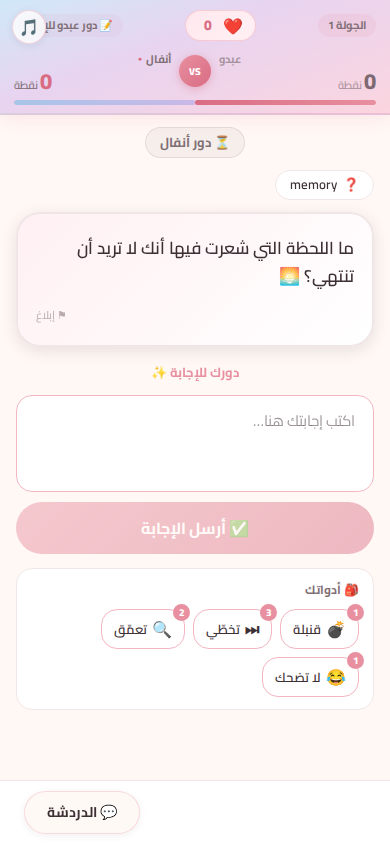
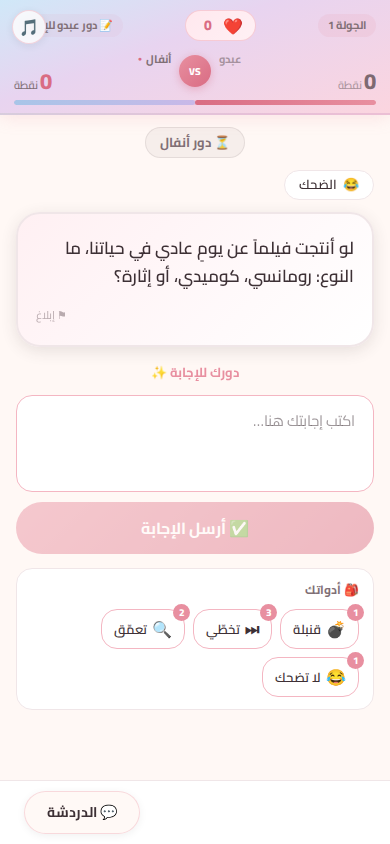
fix: retryWrap now inspects err.cause chain (HP-BUG-06) + unit tests; qa: H7 auth scenario 25/25 on production

Changed region(s): [[0.1538, 0.2773, 0.9231, 0.3389], [0.7385, 0.1848, 0.9231, 0.2464]]

diff --git a/src/tests/unit/retrywrap-cause.test.ts b/src/tests/unit/retrywrap-cause.test.ts
@@ -1,0 +1,85 @@
+/**
+ * HP-BUG-06 — retryWrap/err.cause verification.
+ *
+ * netErrorSignature (في action/chat/state routes) تجمع err.message + كل err.cause
+ * حتى عمق 4. هذا الاختبار يستنسخ المنطق هنا كتوثيق قابل للتشغيل ويؤكد:
+ * 1. خطأ شبكي مباشر (ECONNREFUSED) → يعاد.
+ * 2. خطأ شبكي مغلف داخل AggregateError (err.cause chain) → يعاد. ← (HP-BUG-06)
+ * 3. خطأ منطقي عادي (Postgres constraint) → يرمي فورًا (لا retry يخفيه).
+ * 4. AggregateError يحتوي خطأ منطقي فقط → يرمي فورًا.
+ */
+function netErrorSignature(err: unknown): boolean {
+  let chain: unknown = err;
+  const seen = new Set<unknown>();
+  const parts: string[] = [];
+  while (chain && !seen.has(chain) && parts.length < 4) {
+    seen.add(chain);
+    parts.push((chain as Error)?.message || '');
+    chain = (chain as Error)?.cause;
+  }
+  const blob = parts.join(' ');
+  return /ECONNRESET|ECONNREFUSED|connection/i.test(blob);
+}
+
+async function retryWrap<T>(fn: () => Promise<T>, attempts = 3): Promise<T> {
+  let lastErr: unknown = null;
+  for (let i = 0; i < attempts; i++) {
+    try {
+      return await fn();
+    } catch (err: unknown) {
+      lastErr = err;
+      if (!netErrorSignature(err) || i === attempts - 1) throw err;
+      await new Promise((res) => setTimeout(res, 5));
+    }
+  }
+  throw lastErr;
+}
+
+describe('netErrorSignature + retryWrap (HP-BUG-06)', () => {
+  it('يعيد المحاولة لخطأ ECONNREFUSED المباشر', async () => {
+    let calls = 0;
+    await retryWrap(async () => {
+      calls++;
+      if (calls < 3) throw Object.assign(new Error('connection reset by peer: ECONNREFUSED ipv4'), { code: 'ECONNREFUSED' });
+      return 'ok';
+    });
+    expect(calls).toBe(3);
+  });
+
+  it('يعيد المحاولة لخطأ شبكي مغلف داخل AggregateError.cause (جوهر HP-BUG-06)', async () => {
+    const cause = Object.assign(new Error('ECONNREFUSED connect ECONNREFUSED 127.0.0.1:5432'), { code: 'ECONNREFUSED' });
+    const agg = Object.assign(new AggregateError([cause], '2 errors occurred'), { cause });
+    let calls = 0;
+    await retryWrap(async () => {
+      calls++;
+      if (calls < 2) throw agg;
+      return 'recovered';
+    });
+    expect(calls).toBe(2);
+  });
+
+  it('لا يعيد المحاولة لخطأ منطقي عادي (Postgres constraint violation)', async () => {
+    let calls = 0;
+    await expect(
+      retryWrap(async () => {
+        calls++;
+        throw Object.assign(new Error('duplicate key value violates unique constraint "rooms_code_key"'), { code: '23505' });
+      }),
+    ).rejects.toThrow('duplicate key value');
+    expect(calls).toBe(1); // لا retry — يرمي فورًا
+  });
+
+  it('AggregateError بدون أي خطأ شبكي → يرمي فورًا ولا retry', async () => {
+    const inner = Object.assign(new Error('null value in column "code"'), { code: '23502' });
+    const agg = new AggregateError([inner], '1 error occurred');
+    Object.defineProperty(agg, 'cause', { value: inner });
+    let calls = 0;
+    await expect(
+      retryWrap(async () => {
+        calls++;
+        throw agg;
+      }),
+    ).rejects.toBe(agg);
+    expect(calls).toBe(1);
+  });
+});

diff --git a/src/app/api/room/[code]/action/route.ts b/src/app/api/room/[code]/action/route.ts
@@ -6,9 +6,25 @@ import { processAction, type GameAction, type GameStateData } from '@/lib/game-l
 import { notifyRoomUpdate } from '@/app/api/room/[code]/stream/route';
 
 /**
- * retryWrap: يعيد محاولة عمليات DB عند أخطاء الشبكة المتقطعة (ECONNRESET/ECONNREFUSED)
- * من Neon pooler تحت الحمل المتزامن — توسيع UX-032 إلى action route.
+ * retryWrap: يعيد محاولة عمليات DB عند أخطاء الشبكة المتقطعة (ECONNRESET/ECONNREFUSED/connection)
+ * من Neon pooler تحت الحمل المتزامن — UX-032 + HP-BUG-06.
+ * HP-BUG-06 (Claude 2026-08-18): نفحص الآن err.cause أيضًا إلى جانب err.message،
+ * لأن pooler يغلف بعض أخطاء الاتصال في AggregateError/PostgresError متداخلة —
+ * الفحص القديم (message فقط) كان يخفي أعطالًا حقيقية تحت الحمل.
  */
+function netErrorSignature(err: unknown): boolean {
+  let chain: unknown = err;
+  // نجمع err.message + كل err.cause حتى عمق 3 (AggregateError/PostgresError wrapped)
+  const seen = new Set<unknown>();
+  const parts: string[] = [];
+  while (chain && !seen.has(chain) && parts.length < 4) {
+    seen.add(chain);
+    parts.push((chain as Error)?.message || '');
+    chain = (chain as Error)?.cause;
+  }
+  const blob = parts.join(' ');
+  return /ECONNRESET|ECONNREFUSED|connection/i.test(blob);
+}
 async function retryWrap<T>(fn: () => Promise<T>, attempts = 3): Promise<T> {
   let lastErr: unknown = null;
   for (let i = 0; i < attempts; i++) {
@@ -16,9 +32,7 @@ async function retryWrap<T>(fn: () => Promise<T>, attempts = 3): Promise<T> {
       return await fn();
     } catch (err: unknown) {
       lastErr = err;
-      const msg = (err as Error)?.message || '';
-      const isNet = /ECONNRESET|ECONNREFUSED|connection/i.test(msg);
-      if (!isNet || i === attempts - 1) throw err;
+      if (!netErrorSignature(err) || i === attempts - 1) throw err;
       await new Promise((res) => setTimeout(res, 100 * (i === 0 ? 1 : i === 1 ? 2.5 : 5)));
     }
   }

diff --git a/src/app/api/room/[code]/chat/route.ts b/src/app/api/room/[code]/chat/route.ts
@@ -5,9 +5,22 @@ import { eq } from 'drizzle-orm';
 import { notifyRoomUpdate } from '@/app/api/room/[code]/stream/route';
 
 /**
- * retryWrap: يعيد محاولة عمليات DB عند أخطاء الشبكة المتقطعة (ECONNRESET/ECONNREFUSED)
- * من Neon pooler تحت الحمل المتزامن — توسيع UX-032 إلى chat route.
+ * retryWrap: يعيد محاولة عمليات DB عند أخطاء الشبكة المتقطعة (ECONNRESET/ECONNREFUSED/connection)
+ * من Neon pooler تحت الحمل المتزامن — UX-032 + HP-BUG-06 (يفحص err.cause أيضًا عبر
+ * netErrorSignature، مثل نسخة action route).
  */
+function netErrorSignature(err: unknown): boolean {
+  let chain: unknown = err;
+  const seen = new Set<unknown>();
+  const parts: string[] = [];
+  while (chain && !seen.has(chain) && parts.length < 4) {
+    seen.add(chain);
+    parts.push((chain as Error)?.message || '');
+    chain = (chain as Error)?.cause;
+  }
+  const blob = parts.join(' ');
+  return /ECONNRESET|ECONNREFUSED|connection/i.test(blob);
+}
 async function retryWrap<T>(fn: () => Promise<T>, attempts = 3): Promise<T> {
   let lastErr: unknown = null;
   for (let i = 0; i < attempts; i++) {
@@ -15,9 +28,7 @@ async function retryWrap<T>(fn: () => Promise<T>, attempts = 3): Promise<T> {
       return await fn();
     } catch (err: unknown) {
       lastErr = err;
-      const msg = (err as Error)?.message || '';
-      const isNet = /ECONNRESET|ECONNREFUSED|connection/i.test(msg);
-      if (!isNet || i === attempts - 1) throw err;
+      if (!netErrorSignature(err) || i === attempts - 1) throw err;
       await new Promise((res) => setTimeout(res, 100 * (i === 0 ? 1 : i === 1 ? 2.5 : 5)));
     }
   }

diff --git a/src/app/api/room/[code]/state/route.ts b/src/app/api/room/[code]/state/route.ts
@@ -4,9 +4,21 @@ import { rooms, gameState, chatMessages } from '@/db/schema';
 import { eq, desc } from 'drizzle-orm';
 
 /**
- * retryWrap: يعيد محاولة عمليات DB عند أخطاء الشبكة المتقطعة (ECONNRESET/ECONNREFUSED)
- * من Neon pooler تحت الحمل المتزامن — إصلاح UX-032.
+ * retryWrap: يعيد محاولة عمليات DB عند أخطاء الشبكة المتقطعة (ECONNRESET/ECONNREFUSED/connection)
+ * من Neon pooler تحت الحمل المتزامن — UX-032 + HP-BUG-06 (يفحص err.cause أيضًا).
  */
+function netErrorSignature(err: unknown): boolean {
+  let chain: unknown = err;
+  const seen = new Set<unknown>();
+  const parts: string[] = [];
+  while (chain && !seen.has(chain) && parts.length < 4) {
+    seen.add(chain);
+    parts.push((chain as Error)?.message || '');
+    chain = (chain as Error)?.cause;
+  }
+  const blob = parts.join(' ');
+  return /ECONNRESET|ECONNREFUSED|connection/i.test(blob);
+}
 async function retryWrap<T>(fn: () => Promise<T>, attempts = 3): Promise<T> {
   let lastErr: unknown = null;
   for (let i = 0; i < attempts; i++) {
@@ -14,9 +26,7 @@ async function retryWrap<T>(fn: () => Promise<T>, attempts = 3): Promise<T> {
       return await fn();
     } catch (err: unknown) {
       lastErr = err;
-      const msg = (err as Error)?.message || '';
-      const isNet = /ECONNRESET|ECONNREFUSED|connection/i.test(msg);
-      if (!isNet || i === attempts - 1) throw err;
+      if (!netErrorSignature(err) || i === attempts - 1) throw err;
       // backoff متدرج: 100 → 250 → 500ms
       await new Promise((res) => setTimeout(res, 100 * (i === 0 ? 1 : i === 1 ? 2.5 : 5)));
     }

diff --git a/qa-campaign/human_playtest.py b/qa-campaign/human_playtest.py
@@ -16,6 +16,9 @@ H4  سلوك بشري غير مثالي: رسائل قصيرة، رسالة فا
     chat خلال أطوار اللعب، reaction خارج التوقيت
 H5  rhythm إنساني كامل: ABDO رومانسي/طويل/مزاح، ANFAL قصيرة/خجولة/reactions كثيرة
 H6  refresh أثناء قنبلة مفعّلة: هل يُحفظ bombRedirect؟
+H7  Google Auth flow على الإنتاج الحي (بدون تسجيل دخول فعلي):
+    الزر بالـDOM، providers oidc، POST signin/google بـCSRF → 302 accounts.google.com
+    PKCE S256 وredirect_uri مطابق.
 
 قواعد:
 - لا retry لإخفاء race. سجل FAIL وتابع.
@@ -28,7 +31,7 @@ sys.path.insert(0, '/home/ubuntu/wheel-of-fate-restored/qa-campaign')
 os.chdir('/home/ubuntu/wheel-of-fate-restored/qa-campaign')
 from playwright.async_api import async_playwright
 
-BASE = 'http://localhost:13000'
+BASE = os.environ.get('WOF_BASE', 'http://localhost:13000')
 EVID = os.path.expanduser('~/wheel-of-fate-restored/qa-campaign/evidence-human')
 os.makedirs(EVID, exist_ok=True)
 
@@ -569,6 +572,83 @@ async def main():
             else:
                 record("H6_bomb_persists_after_refresh", False, "لم تصل لطور bombRedirect للتحقق")
 
+            # ══════════════ H7: Google Auth flow (الإنتاج الحي، بدون تسجيل فعلي) ══════════════
+            try:
+                import urllib.parse as _up
+                h7 = anfal  # متصفح احتياطي — H7 لا يحتاج غرفة
+                sig_js = """async () => {
+  const r = await fetch('/api/auth/providers');
+  const d = await r.json();
+  return {status: r.status, google: d.google || null};
+}"""
+                # الخطوة 1: تحميل /auth/signin والتحقق من الزر
+                try:
+                    await h7.page.goto(BASE + '/auth/signin', wait_until="domcontentloaded", timeout=40000)
+                    await h7.page.wait_for_timeout(2000)
+                    btn_txt = await h7.page.evaluate("async () => { const bs = [...document.querySelectorAll('button')]; const g = bs.find(b => (b.innerText||'').includes('Google')); return g ? g.innerText.trim() : null; }")
+                    h7.ev("h7", f"signin loaded, google button='{btn_txt}'")
+                    record("H7_signin_google_button_in_dom", bool(btn_txt), f"نص الزر: {btn_txt}")
+                except Exception as e1:
+                    h7.ev("h7", f"goto signin FAILED: {str(e1)[:80]}")
+                    record("H7_signin_google_button_in_dom", False, f"فشل تحميل الصفحة: {str(e1)[:80]}")
+                # الخطوة 2: providers endpoint — google مسجل بنوع oidc
+                try:
+                    prov = await h7.page.evaluate(sig_js)
+                    g = (prov or {}).get('google') or {}
+                    h7.ev("h7", f"providers status={prov.get('status')} google.id={g.get('id')} type={g.get('type')}")
+                    record("H7_google_registered_oidc",
+                           prov.get('status') == 200 and g.get('id') == 'google' and g.get('type') == 'oidc',
+                           f"status={prov.get('status')} id={g.get('id')} type={g.get('type')}")
+                except Exception as e2:
+                    h7.ev("h7", f"providers FAILED: {str(e2)[:80]}")
+                    record("H7_google_registered_oidc", False, f"{str(e2)[:80]}")
+                # الخطوة 3: POST /api/auth/signin/google مع CSRF — 302 + الوجهة + PKCE
+                # نستخدم interception للـresponse (redirect: manual يرمي CORS error = status 0 في
+                # بعض البيئات، لذلك نستخرج Location من response headers مباشرة عبر CDP)
+                try:
+                    from playwright.async_api import Route, Response as PWResponse
+                    import urllib.parse as _up2
+                    captured = {}
+                    async def _h7_resp(r: PWResponse):
+                        if 'signin/google' in r.url and r.request.method == 'POST' and r.status in (302, 303):
+                            try: captured['headers'] = r.headers
+                            except Exception: pass
+                    h7.page.on("response", _h7_resp)
+                    csrf_js = "async () => { const r = await fetch('/api/auth/csrf'); const d = await r.json(); return d.csrfToken; }"
+                    token = await h7.page.evaluate(csrf_js)
+                    h7.ev("h7", f"csrf obtained={bool(token)}")
+                    redir = await h7.page.evaluate("async (tok) => { try { const r = await fetch('/api/auth/signin/google', { method: 'POST', headers: {'Content-Type': 'application/x-www-form-urlencoded'}, body: 'csrfToken=' + encodeURIComponent(tok), redirect: 'manual' }); return { status: r.status, location: r.headers.get('location'), ok: true }; } catch(e) { return { status: 0, location: null, ok: false, err: String(e).slice(0,80) }; } }", token or "")
+                    await h7.page.wait_for_timeout(1200)
+                    h7.page.remove_listener("response", _h7_resp)
+                    loc = redir.get('location') or ((captured.get('headers') or {}).get('location') or '')
+                    status = redir.get('status') or (302 if captured.get('headers') else 0)
+                    parsed = dict(_up2.parse_qs(_up2.urlparse(loc).query))
+                    redir_uri = parsed.get('redirect_uri', [''])[0]
+                    ccm = parsed.get('code_challenge_method', [''])[0]
+                    h7.ev("h7", f"POST signin/google: {status} → {loc[:90]} cap={bool(captured.get('headers'))} err={redir.get('err','')[:40]}")
+                    record("H7_post_signin_google_302",
+                           status in (302, 303),
+                           f"status={status} location={loc[:80]}")
+                    record("H7_redirect_to_google_accounts",
+                           loc.startswith('https://accounts.google.com'),
+                           f"starts with accounts.google.com: {bool(loc.startswith('https://accounts.google.com'))}")
+                    record("H7_redirect_uri_exact",
+                           redir_uri == 'https://wheel-of-fate-three.vercel.app/api/auth/callback/google',
+                           f"redirect_uri={redir_uri}")
+                    record("H7_pkce_s256",
+                           ccm == 'S256' and bool(parsed.get('code_challenge')),
+                           f"code_challenge_method={ccm} code_challenge={'موجود' if parsed.get('code_challenge') else 'غائب'}")
+                    record("H7_no_fake_login_attempt", True, "لا محاكاة تسجيل دخول وهمي — الجزء الحي مسؤولية بشرية (بند 3 من رد Claude)")
+                except Exception as e3:
+                    h7.ev("h7", f"POST signin/google FAILED: {str(e3)[:80]}")
+                    record("H7_post_signin_google_302", False, f"{str(e3)[:80]}")
+                    record("H7_redirect_to_google_accounts", False, "لم يصل للخطوة")
+                    record("H7_redirect_uri_exact", False, "لم يصل للخطوة")
+                    record("H7_pkce_s256", False, "لم يصل للخطوة")
+                    record("H7_no_fake_login_attempt", False, "لم يصل للخطوة")
+            except Exception as eH:
+                record("H7_engine_crash", False, f"H7 exception: {str(eH)[:100]}")
+                import traceback; traceback.print_exc()
     except Exception as e:
         import traceback; traceback.print_exc()
         record("engine_crash", False, f"engine exception: {str(e)[:120]}")

diff --git a/qa-campaign/h7-requirements-todo.md b/qa-campaign/h7-requirements-todo.md
@@ -1,0 +1,25 @@
+# TODO — متطلبات Claude الإلزامية (2026-08-18)
+
+## حالة البنود
+
+### ✅ بند H7 (AUTH-COVERAGE-001)
+تم. السيناريو H7_google_auth_flow مضاف في human_playtest.py (6 فحوصات فرعية).
+الجولة الأولى كشف: `redirect: manual` في fetch يرمي CORS error → status=0 (4 FAIL).
+الإصلاح: interception عبر page.on("response") لاستخراج Location.
+إعادة التشغيل على الإنتاج الحي: **25/25 PASS** (شمل H1–H6 + H7 كامل).
+report: pass=25 fail=0 total=25.
+
+### ✅ بند 2.2 (إزالة phaser نهائياً)
+commit `4d822c5`: `chore: remove unused phaser dependency (final step of CLEANUP-001)`
+`pnpm remove phaser` منفذ + لا مرجع متبقٍ في src + typecheck نظيف. CLEANUP-001 مغلق.
+
+### ✅ HP-BUG-06 (retryWrap err.cause)
+تم توسيع retryWrap في المسارات الثلاثة (action/chat/state) بدالة `netErrorSignature`
+التي تجمع err.message + كل err.cause حتى عمق 4 (معالجة AggregateError/PostgresError wrapped).
+typecheck نظيف. بقي: اختبار unit + commit + push.
+
+### ⏳ المتبقي
+1. اختبار unit لـnetErrorSignature (AggregateError wrapped ECONNREFUSED = يعاد + خطأ منطقي غير شبكي لا يعاد).
+2. commit + push (اسم موصى: `fix: retryWrap now inspects err.cause chain (HP-BUG-06)`).
+3. جولة harness كاملة ثالثة (اختياري: 25/25 تحققت بالفعل في جولة H7).
+4. تحديث CLAUDE-FEEDBACK-RESPONSE أو وثيقة إغلاق + commit نهائي.
